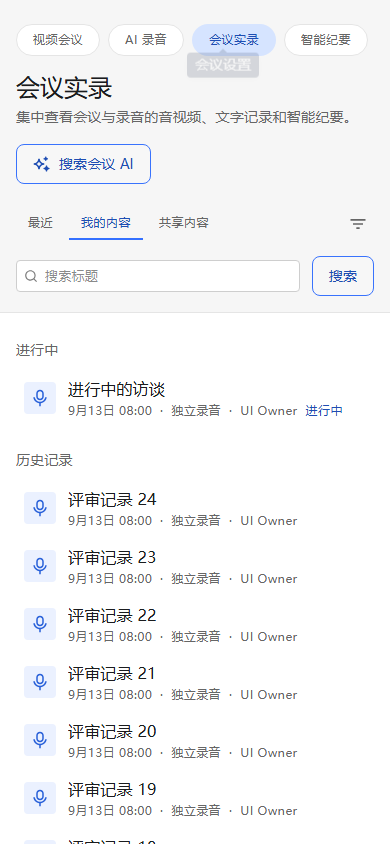
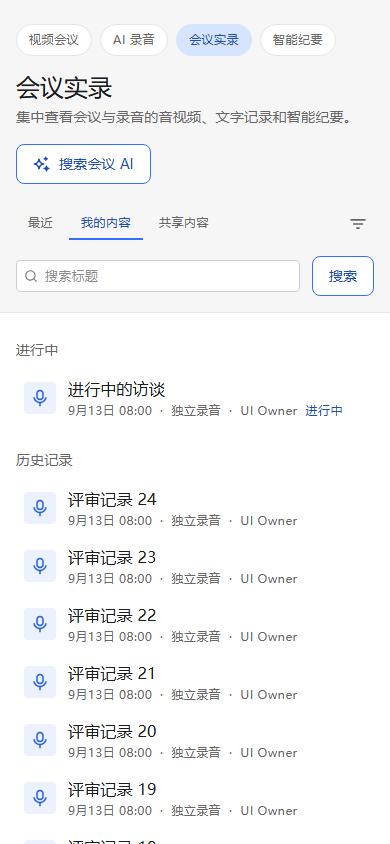
fix(meetings): fit the whole pill row on a 390px screen
窄屏栏目胶囊行在 390px 下有 2px 溢出(375px 机是 17px),最后一个「智能纪要」
被切掉一截,只能靠横滑去够。内边距在窄屏收一档(16px → 12px),四个入口
在 390/375 都完整显示;再窄(≤360)仍然横滑,不折行(原本也不会折:
flexWrap nowrap + overflowX auto)。

顺带修走查脚本的一个「幽灵元素」:Tab 键盘走查会把「会议设置」齿轮的
Tooltip 打开,而 react-aria 的 tooltip 是挂到 body 下 portal 的 —— 视口
缩到 390px 后它仍留在桌面端的老坐标上,于是被当成了「胶囊行的第 5 项折到
第二行」。现在截图前显式 Escape + blur 并等到它彻底不可见(退场有淡出
动画),另加四条断言锁住胶囊行:一行、nowrap、overflow-x auto、390px 下
四个入口完整显示。

验证:npm run lint / check、tsc -b、相关 vitest(13 条)、
check-meeting-pages-ui.mjs 全绿;截图已更新。

Changed region(s): [[0.2769, 0.0308, 0.8923, 0.0924], [0.0615, 0.0308, 0.2154, 0.0616]]

diff --git a/src/frontend/src/features/meetings/components/MeetingModuleNav.tsx b/src/frontend/src/features/meetings/components/MeetingModuleNav.tsx
@@ -81,7 +81,10 @@ const itemCls = css({
   alignItems: 'center',
   flexShrink: 0,
   minHeight: 'controlHeight.compact',
-  paddingX: 'lg',
+  // 窄屏收到一档内边距:四个入口在 375/390 这类常见机宽下**完整显示**(16px 内边距
+  // 时整行比视口宽 2~17px,最后一个胶囊会被切掉一截,只能靠横向滚动去够)。再窄
+  // (≤360)仍然横滑,不折行。
+  paddingX: { base: 'md', md: 'lg' },
   borderRadius: 'pill',
   textStyle: 'labelMedium',
   textDecoration: 'none',

diff --git a/CHANGELOG.md b/CHANGELOG.md
@@ -107,6 +107,8 @@ and this project adheres to
   prefetch the owner for the table list view
 - ✨(frontend) render the meeting records and minutes lists as a Feishu-style
   table with an owner column and creation-time sorting
+- 🩹(frontend) fit all four meeting-module pills on a 390px screen
+- 🩹(frontend) dismiss leftover tooltips before the walkthrough screenshots
 
 ## [1.16.0] - 2026-05-13
 
